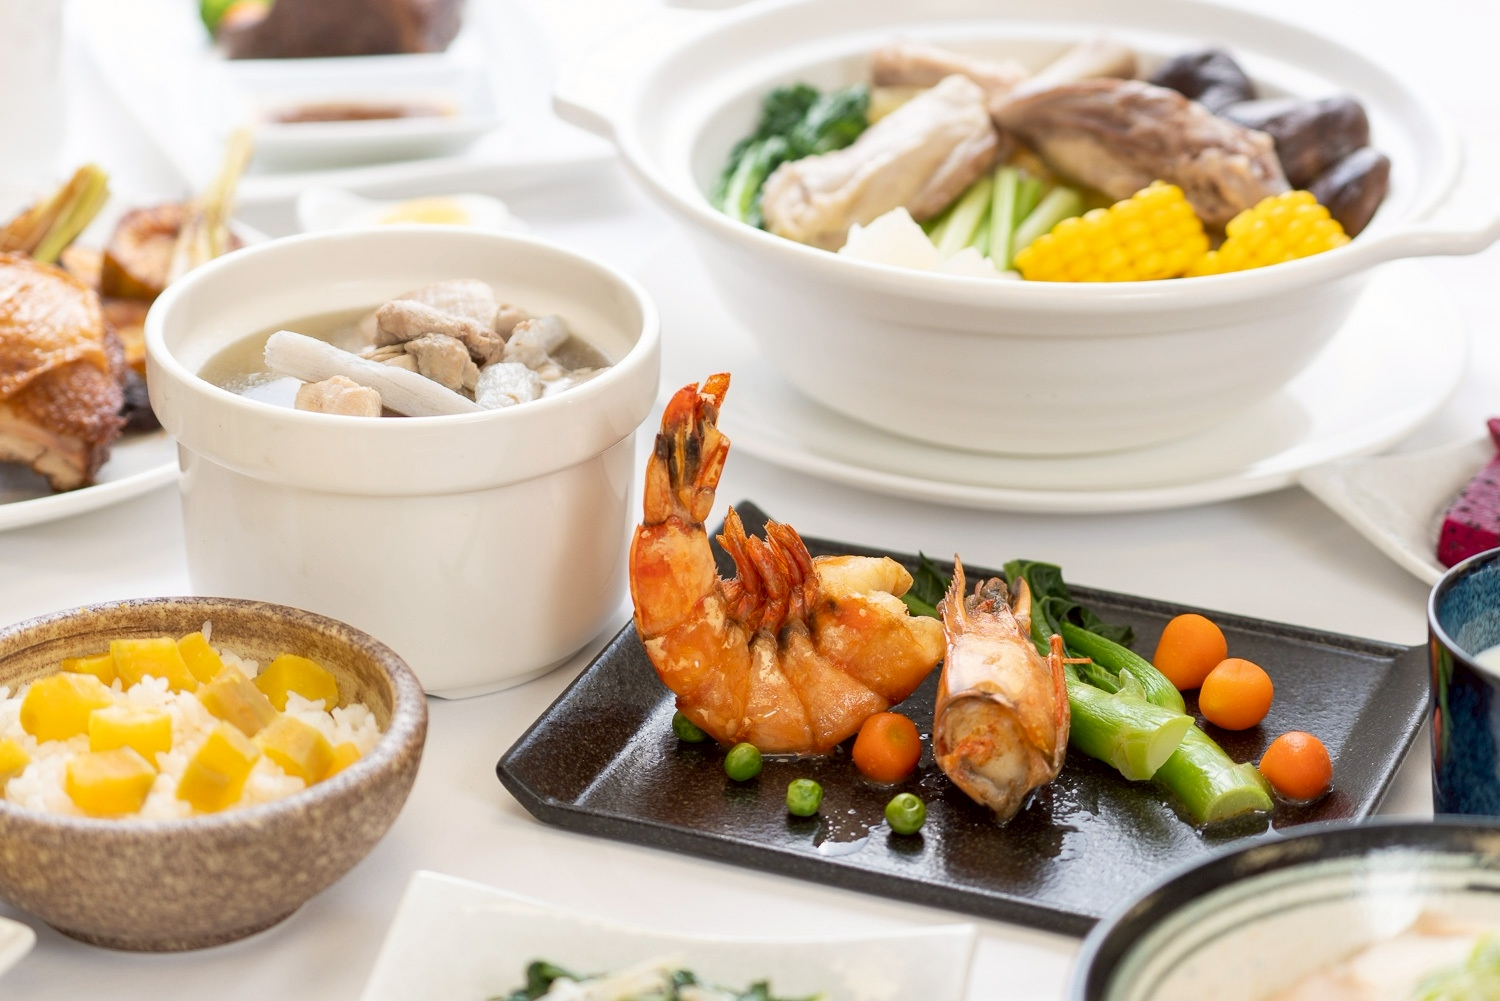
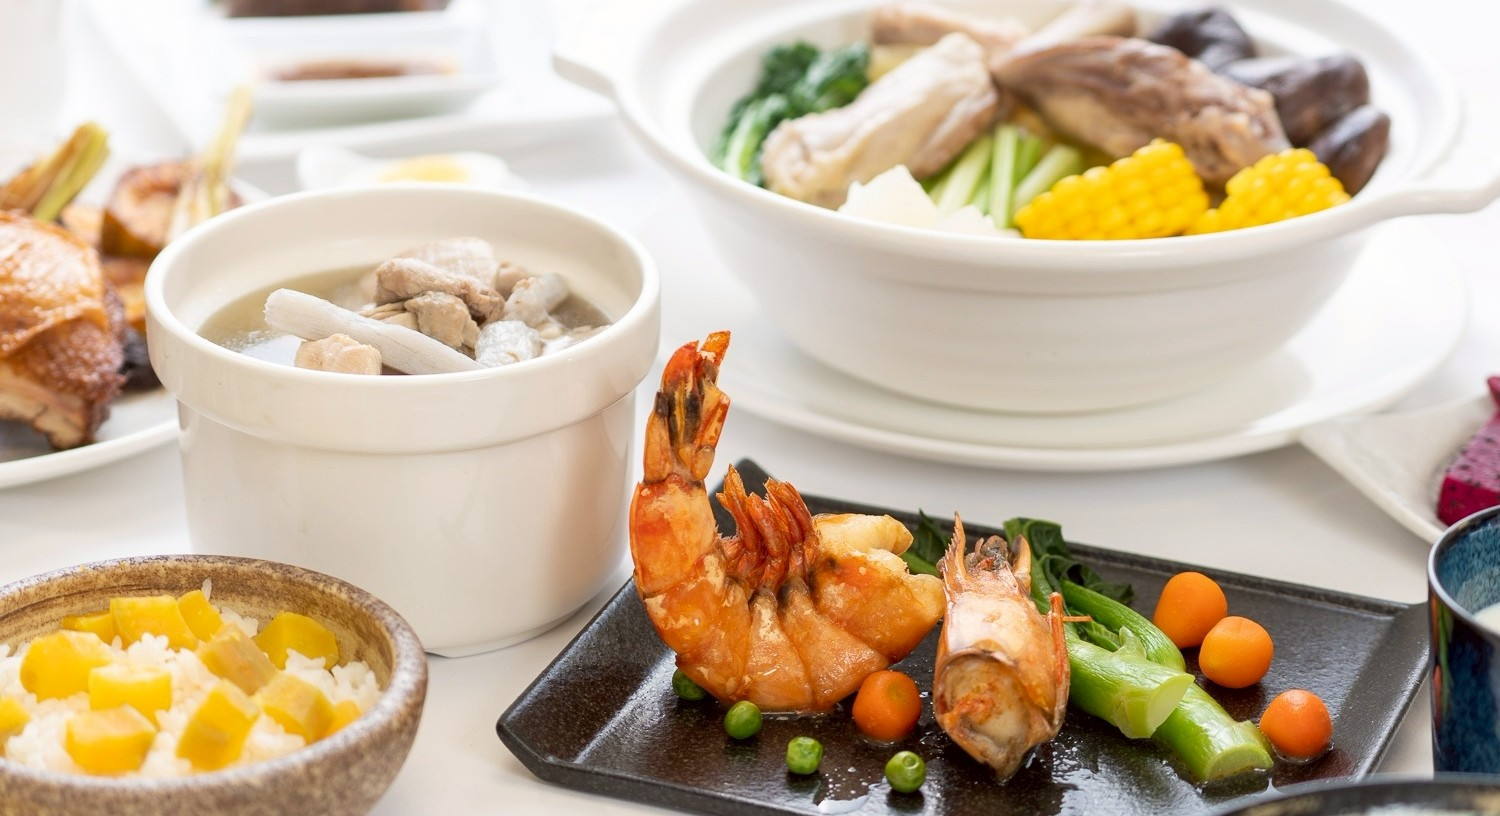
Add files via upload

diff --git a/app.js b/app.js
@@ -140,13 +140,14 @@ const mapData = {
             <div style="display: grid; grid-template-columns: repeat(auto-fit, minmax(300px, 1fr)); gap: 20px;">
                 <div class="placeholder-card" style="border-top: 5px solid #ff7675; cursor: pointer; transition: all 0.2s;" onmouseover="this.style.transform='translateY(-5px)'; this.style.boxShadow='0 8px 25px rgba(255, 118, 117, 0.2)';" onmouseout="this.style.transform='translateY(0)'; this.style.boxShadow='0 4px 15px rgba(0,0,0,0.05)';" onclick="navigateTo('story_women_leadership')">
                     <h2 style="color: #ff7675; margin-bottom: 10px;">在嘉裡，DEI 不是口號</h2>
+                    <p style="color: #636e72; line-height: 1.6; font-weight: bold; margin-bottom: 10px;">女力領導與多元共融</p>
                     <p style="color: #636e72; line-height: 1.6;">在嘉新，我們相信多元共融的力量。透過高比例女性決策者的引領與友善家庭政策的實踐，我們為每位同仁編織支持網，讓工作與生活能自在平衡。點擊探索嘉新如何將 DEI 融入日常。</p>
                     <div style="margin-top: 15px; font-weight: bold; color: #ff7675; text-align: right;">探索 DEI 實踐故事 ▶</div>
                 </div>
                 <div class="placeholder-card" style="border-top: 5px solid #74b9ff; cursor: pointer; transition: all 0.2s;" onmouseover="this.style.transform='translateY(-5px)'; this.style.boxShadow='0 8px 25px rgba(116, 185, 255, 0.2)';" onmouseout="this.style.transform='translateY(0)'; this.style.boxShadow='0 4px 15px rgba(0,0,0,0.05)';" onclick="navigateTo('story_care')">
                     <h2 style="color: #74b9ff; margin-bottom: 10px;">全面員工支持與關懷</h2>
                     <p style="color: #636e72; line-height: 1.6; font-weight: bold; margin-bottom: 10px;">360 度全方位福利</p>
-                    <p style="color: #636e72; line-height: 1.6;">從「日常彈性」、「身心健康」、「財富保障」到「生老病死」的全方位照顧。我們 offer 優於法規的假勤與各項補助，做為嘉人們最安心的後盾，打造工作與生活雙贏的幸福職場。</p>
+                    <p style="color: #636e72; line-height: 1.6;">從「日常彈性」、「身心健康」、「財富保障」到「生老病死」的全方位照顧。我們 offer 優於法規的給假與各項補助，做為嘉人們最安心的後盾，打造工作與生活雙贏的幸福職場。</p>
                     <div style="margin-top: 15px; font-weight: bold; color: #74b9ff; text-align: right;">探索完整福利 ▶</div>
                 </div>
                 <div class="placeholder-card" style="border-top: 5px solid #fdcb6e; cursor: pointer; transition: all 0.2s;" onmouseover="this.style.transform='translateY(-5px)'; this.style.boxShadow='0 8px 25px rgba(253, 203, 110, 0.2)';" onmouseout="this.style.transform='translateY(0)'; this.style.boxShadow='0 4px 15px rgba(0,0,0,0.05)';" onclick="navigateTo('story_benefits')">
@@ -158,7 +159,7 @@ const mapData = {
                 <div class="placeholder-card" style="border-top: 5px solid #a29bfe; cursor: pointer; transition: all 0.2s;" onmouseover="this.style.transform='translateY(-5px)'; this.style.boxShadow='0 8px 25px rgba(162, 155, 254, 0.2)';" onmouseout="this.style.transform='translateY(0)'; this.style.boxShadow='0 4px 15px rgba(0,0,0,0.05)';" onclick="navigateTo('story_interns')">
                     <h2 style="color: #a29bfe; margin-bottom: 10px;">嘉人計畫</h2>
                     <p style="color: #636e72; line-height: 1.6; font-weight: bold; margin-bottom: 10px;">實習生怎麼說</p>
-                    <p style="color: #636e72; line-height: 1.6;">聽聽在不同部門實習的年輕夥伴們，如何在嘉新獲得專業成長與溫慢支持。最真實的實習心得分享，帶你一窺嘉人的日常實習生活！</p>
+                    <p style="color: #636e72; line-height: 1.6;">聽聽在不同部門實習的年輕夥伴們，如何在嘉新獲得專業成長與溫暖支持。最真實的實習心得分享，帶你一窺嘉人的日常實習生活！</p>
                     <div style="margin-top: 15px; font-weight: bold; color: #a29bfe; text-align: right;">看看實習小檔案 ▶</div>
                 </div>
             </div>
@@ -412,7 +413,7 @@ const mapData = {
                             </div>
                             <div id="mandy-family" class="leader-tab-content">
                                 <p class="leader-content-p">
-                                    身為「好媳婦代表」的 Mandy，能輕鬆將家人照顧得妥妥當當，同時在稽核工作上展現專業。她特別感謝嘉新優於勞基法的假勤福利與彈性工時，讓她能在高壓工作與家庭生活間取得完美平衡。
+                                    身為「好媳婦代表」的 Mandy，能輕鬆將家人照顧得妥妥當當，同時在稽核工作上展現專業。她特別感謝嘉新優於勞基法的給假福利與彈性工時，讓她能在高壓工作與家庭生活間取得完美平衡。
                                 </p>
                             </div>
                         </div>
@@ -600,7 +601,7 @@ story_benefits: {
                             <li><b>彈性出勤：</b> 上班 07:30-09:30／下班 16:30-18:30。</li>
                             <li><b>遠距辦公：</b> 每月可申請 3 日。</li>
                             <li><b>節慶小確幸：</b> 重要節日前半天提早下班。</li>
-                            <li><b>專屬假勤：</b> 新人假（通過試用期即享 2 日）、生日假（當月半日）、志工假（每年 6 天）。</li>
+                            <li><b>專屬給假：</b> 新人假（通過試用期即享 2 日）、生日假（當月半日）、志工假（每年 6 天）。</li>
                         </ul>
                     </div>
 
@@ -805,9 +806,8 @@ story_benefits: {
 
                 <!-- 支柱一：深耕教育與情緒陪伴 (左圖右文) -->
                 <div style="display: flex; flex-wrap: wrap; margin-bottom: 40px; background: white; border-radius: 15px; overflow: hidden; box-shadow: 0 4px 15px rgba(0,0,0,0.05);">
-                    <div style="flex: 1; min-width: 300px; background: #fdfbf7; padding: 40px; display: flex; flex-direction: column; justify-content: center; align-items: center; border-right: 1px solid #f1f2f6;">
-                        <div style="width: 80px; height: 80px; border-radius: 50%; background: #ffeaa7; display: flex; justify-content: center; align-items: center; font-size: 2rem; margin-bottom: 15px;">📚</div>
-                        <div style="color: #b2bec3; font-size: 0.9rem;">圖片佔位區</div>
+                    <div style="flex: 1; min-width: 300px; position: relative; overflow: hidden; display: flex; align-items: center; justify-content: center; border-right: 1px solid #f1f2f6;">
+                        <img src="assets/20250830_嘉新獎學金頒獎典禮298s_熊愛攝影-1536x1024.jpg" alt="嘉新兆福文化基金會獎學金頒獎典禮" style="width: 100%; height: 100%; object-fit: cover; min-height: 280px; display: block;">
                     </div>
                     <div style="flex: 2; min-width: 300px; padding: 40px;">
                         <h2 style="color: #f39c12; font-size: 1.6rem; margin-bottom: 15px;">深耕教育與情緒陪伴</h2>
@@ -818,9 +818,8 @@ story_benefits: {
 
                 <!-- 支柱二：由內而外的志工文化 (右圖左文) -->
                 <div style="display: flex; flex-wrap: wrap; flex-direction: row-reverse; margin-bottom: 40px; background: white; border-radius: 15px; overflow: hidden; box-shadow: 0 4px 15px rgba(0,0,0,0.05);">
-                    <div style="flex: 1; min-width: 300px; background: #fdfbf7; padding: 40px; display: flex; flex-direction: column; justify-content: center; align-items: center; border-left: 1px solid #f1f2f6;">
-                        <div style="width: 80px; height: 80px; border-radius: 50%; background: #fab1a0; display: flex; justify-content: center; align-items: center; font-size: 2rem; margin-bottom: 15px;">🤝</div>
-                        <div style="color: #b2bec3; font-size: 0.9rem;">圖片佔位區</div>
+                    <div style="flex: 1; min-width: 300px; position: relative; overflow: hidden; display: flex; align-items: center; justify-content: center; border-left: 1px solid #f1f2f6;">
+                        <img src="assets/正向大人.jpg" alt="正向大人陪伴計畫" style="width: 100%; height: 100%; object-fit: cover; min-height: 280px; display: block;">
                     </div>
                     <div style="flex: 2; min-width: 300px; padding: 40px;">
                         <h2 style="color: #f39c12; font-size: 1.6rem; margin-bottom: 15px;">由內而外的志工陪伴文化</h2>
@@ -831,9 +830,8 @@ story_benefits: {
 
                 <!-- 支柱三：文化傳承與健康生活 (左圖右文) -->
                 <div style="display: flex; flex-wrap: wrap; margin-bottom: 50px; background: white; border-radius: 15px; overflow: hidden; box-shadow: 0 4px 15px rgba(0,0,0,0.05);">
-                    <div style="flex: 1; min-width: 300px; background: #fdfbf7; padding: 40px; display: flex; flex-direction: column; justify-content: center; align-items: center; border-right: 1px solid #f1f2f6;">
-                        <div style="width: 80px; height: 80px; border-radius: 50%; background: #55efc4; display: flex; justify-content: center; align-items: center; font-size: 2rem; margin-bottom: 15px;">🏛️</div>
-                        <div style="color: #b2bec3; font-size: 0.9rem;">圖片佔位區</div>
+                    <div style="flex: 1; min-width: 300px; position: relative; overflow: hidden; display: flex; align-items: center; justify-content: center; border-right: 1px solid #f1f2f6;">
+                        <img src="assets/沖繩工藝.jpg" alt="沖繩傳統工藝展示" style="width: 100%; height: 100%; object-fit: cover; min-height: 280px; display: block;">
                     </div>
                     <div style="flex: 2; min-width: 300px; padding: 40px;">
                         <h2 style="color: #f39c12; font-size: 1.6rem; margin-bottom: 15px;">文化傳承與健康空間營造</h2>